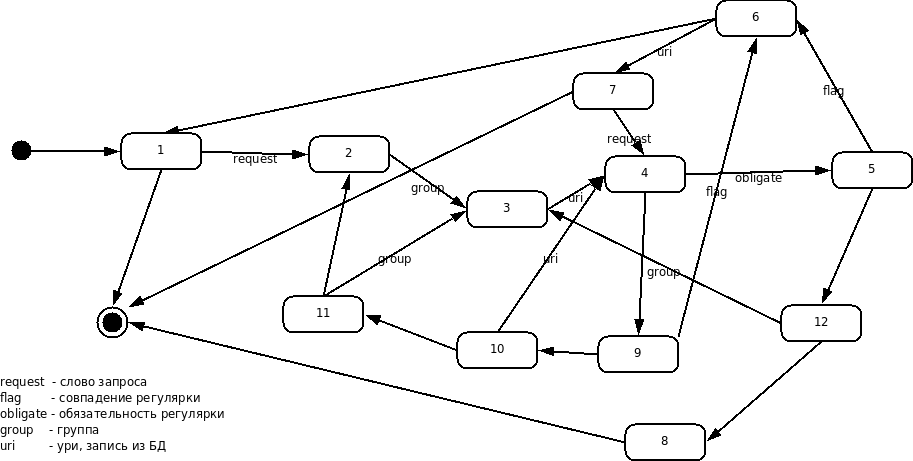
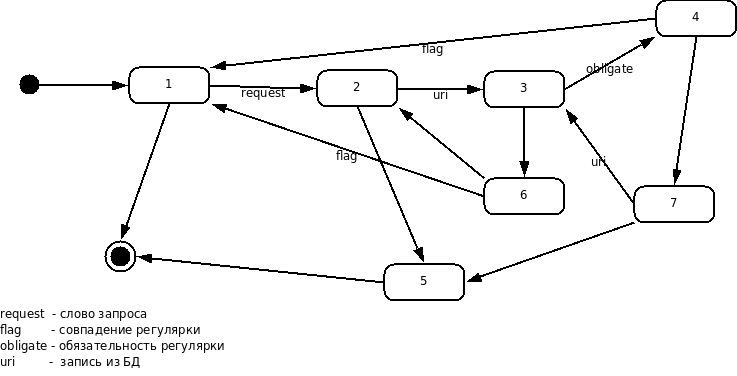
* Создана новая тестовая таблица mnix_test_uri2 * Упрощен конечный автомат для Mnix_Uri, теперь в нём 7 состояний * Конечный автомат работает теперь по таблице mnix_test_uri2 *! Существует потенциальная проблема, если в таблице будут записи имеющие общих предков, в которых поле obligate равно нулю

diff --git a/branches/prealpha/public/Mulanix/lib/Uri.php b/branches/prealpha/public/Mulanix/lib/Uri.php
@@ -27,7 +27,7 @@ class Mnix_Uri extends Mnix_ORM_Prototype
      * @param string $data
      * return int
      */
-    protected static function _parse($data = null)
+    /*protected static function _parse($data = null)
     {
         if (isset($data)) $requests = self::_parts($data);
         else $requests = self::_parts($_SERVER['REQUEST_URI']);
@@ -143,6 +143,96 @@ class Mnix_Uri extends Mnix_ORM_Prototype
             if ($iii > 100) {
                 //TODO
                 //Тут кидать исключение
+                break;
+            }
+        } while ($state);
+        return $id;
+    }*/
+    protected static function _parse($data = null)
+    {
+        if (isset($data)) $requests = self::_parts($data);
+        else $requests = self::_parts($_SERVER['REQUEST_URI']);
+        $db = Mnix_Db::connect();
+        $state = 1;
+        $data = array();
+        $parent = 0;
+        $iii = 0;
+        do {
+            //var_dump('State:'.$state);
+            switch ($state) {
+                //Берём слово из урл
+                case 1:
+                    $request = array_shift($requests);
+                    if ($request) {
+                        $state = 2;
+                    }
+                    else $state = 0;
+                    break;
+                //Берём урл
+                case 2:
+                    $res_t = $db->select()->from('mnix_test_uri2', '*')
+                                          ->where('?t = ?i', array('parent', $parent))
+                                          ->query();
+                    if (isset($res) && count($res)) $res = array_merge($res_t, $res);
+                    else $res = $res_t;
+                    if ($res) {
+                        //var_dump($res);
+                        $uri = array_shift($res);
+                        $state = 3;
+                    } else $state = 5;
+                    break;
+                //Проверяем обязательность
+                case 3:
+                    if ($uri['obligate']) {
+                        $parent = $uri['id'];
+                        $id = $uri['page_id'];
+                        $state = 4;
+                    } else $state = 6;
+                    break;
+                //Проверяем регулярку
+                case 4:
+                    $pattern = '/^' . $uri['regular'] . '$/';
+                    if (preg_match($pattern, $request)) {
+                        $parent = $uri['id'];
+                        $id = $uri['page_id'];
+                        $state = 1;
+                    } else $state = 7;
+                    break;
+                //Тут выдаём ошибочную страницу
+                case 5:
+                    $res = $db->select()->from('mnix_test_uri2', '*')
+                                        ->where('?t = ?i', array('parent', -1))
+                                        ->query();
+                    $id = $res[0]['page_id'];
+                    $state = 0;
+                    break;
+                //Проверяем регулярку
+                case 6:
+                    $pattern = '/^' . $uri['regular'] . '$/';
+                    $parent = $uri['id'];
+                    if (preg_match($pattern, $request)) {
+                        $id = $uri['page_id'];
+                        $state = 1;
+                    } else $state = 2;
+                    break;
+                //Смотрим остались ли урлы
+                case 7:
+                    $uri = array_shift($res);
+                    if ($uri) $state = 3;
+                    else $state = 5;
+                    break;
+                //TODO
+                //Тут кидать исключение
+                default:
+                    var_dump('NO state!'.$state);
+                    break;
+            }
+            //Типa защита
+            $iii++;
+            if ($iii > 100) {
+                //TODO
+                //Тут кидать исключение
+                var_dump('TO MANY!');
                 break;
             }
         } while ($state);

diff --git a/branches/prealpha/public/Mulanix/test/lib/UriTest.php b/branches/prealpha/public/Mulanix/test/lib/UriTest.php
@@ -49,12 +49,16 @@ class Test_Mnix_UriTest extends PHPUnit_Framework_TestCase
             array('/faqs', 2),
             array('/ru/faqs', 2),
             array('/en//faqs///', 2),
-            array('/fag1', 3),
-            array('/en/fag1', 3),
-            array('/en/fag8', 3),
-            array('/ru/fag8/course1', 3),
-            array('/ru/fag8/course', 5),
-            array('/en/course2', 5)
+            array('/faq1', 3),
+            array('/en/faq1', 3),
+            array('/en/faq8', 3),
+            array('/ru/faq8/course1', 3),
+            array('/ru/faq8/course', 5),
+            array('/en/course2', 5),
+            array('/ru/faq8/course1/term5', 3),
+            array('/ru/faq8/course1/term', 5),
+            array('/ru/faq8/term10', 3),
+            array('/ru/faq8/100', 4)
         );
     }
 }
